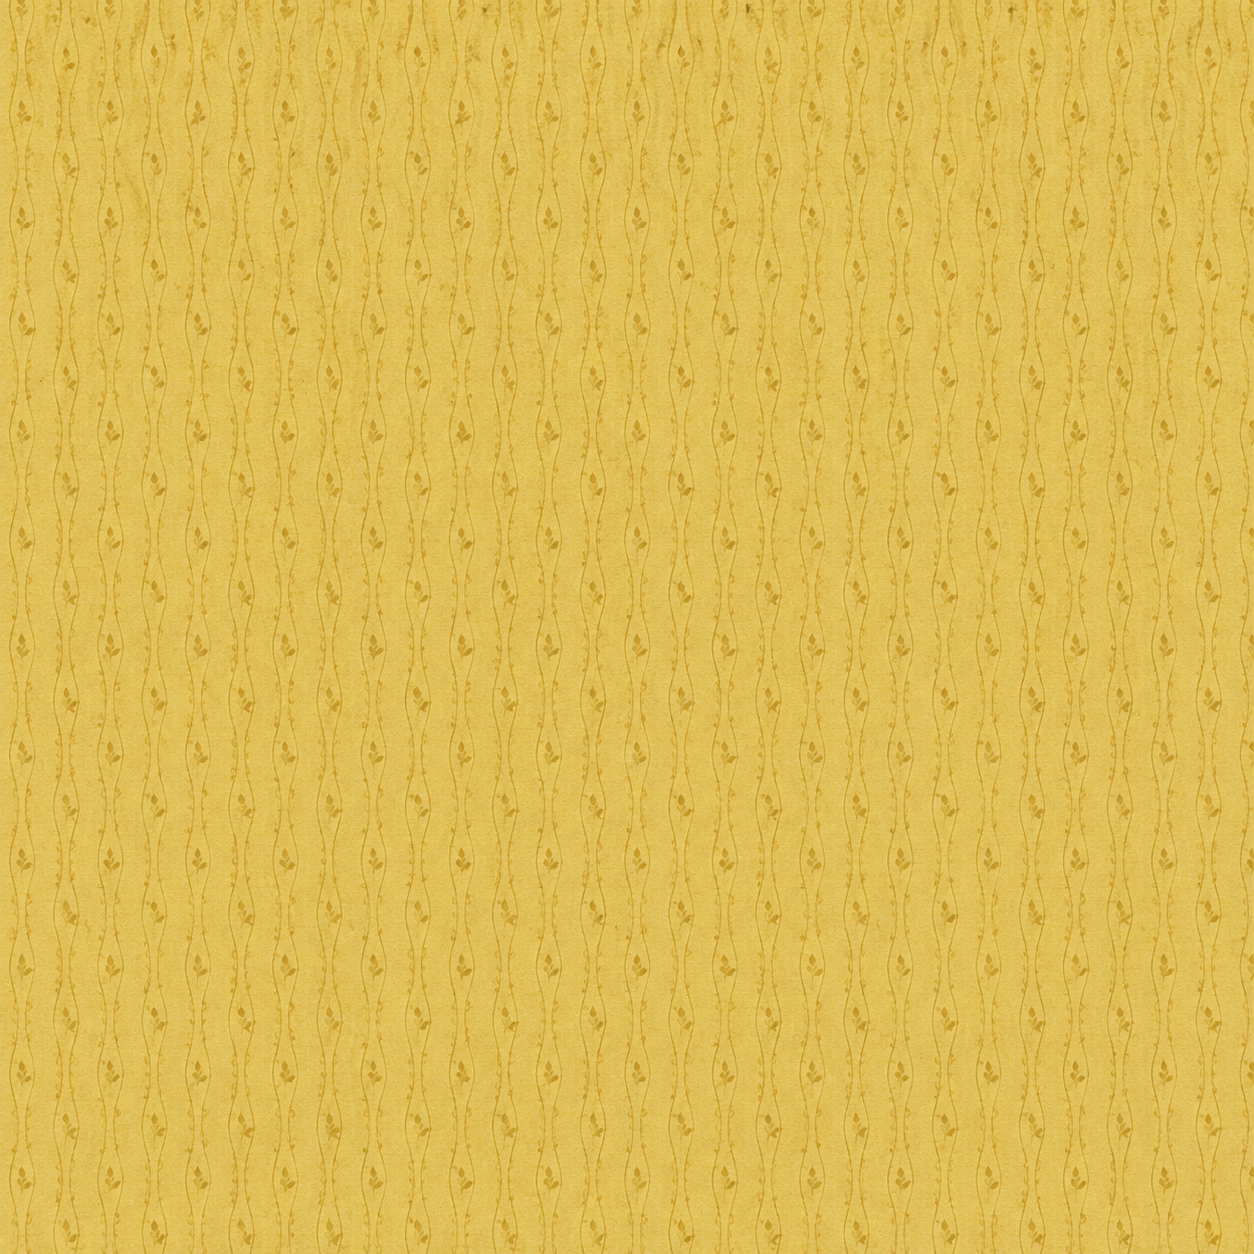
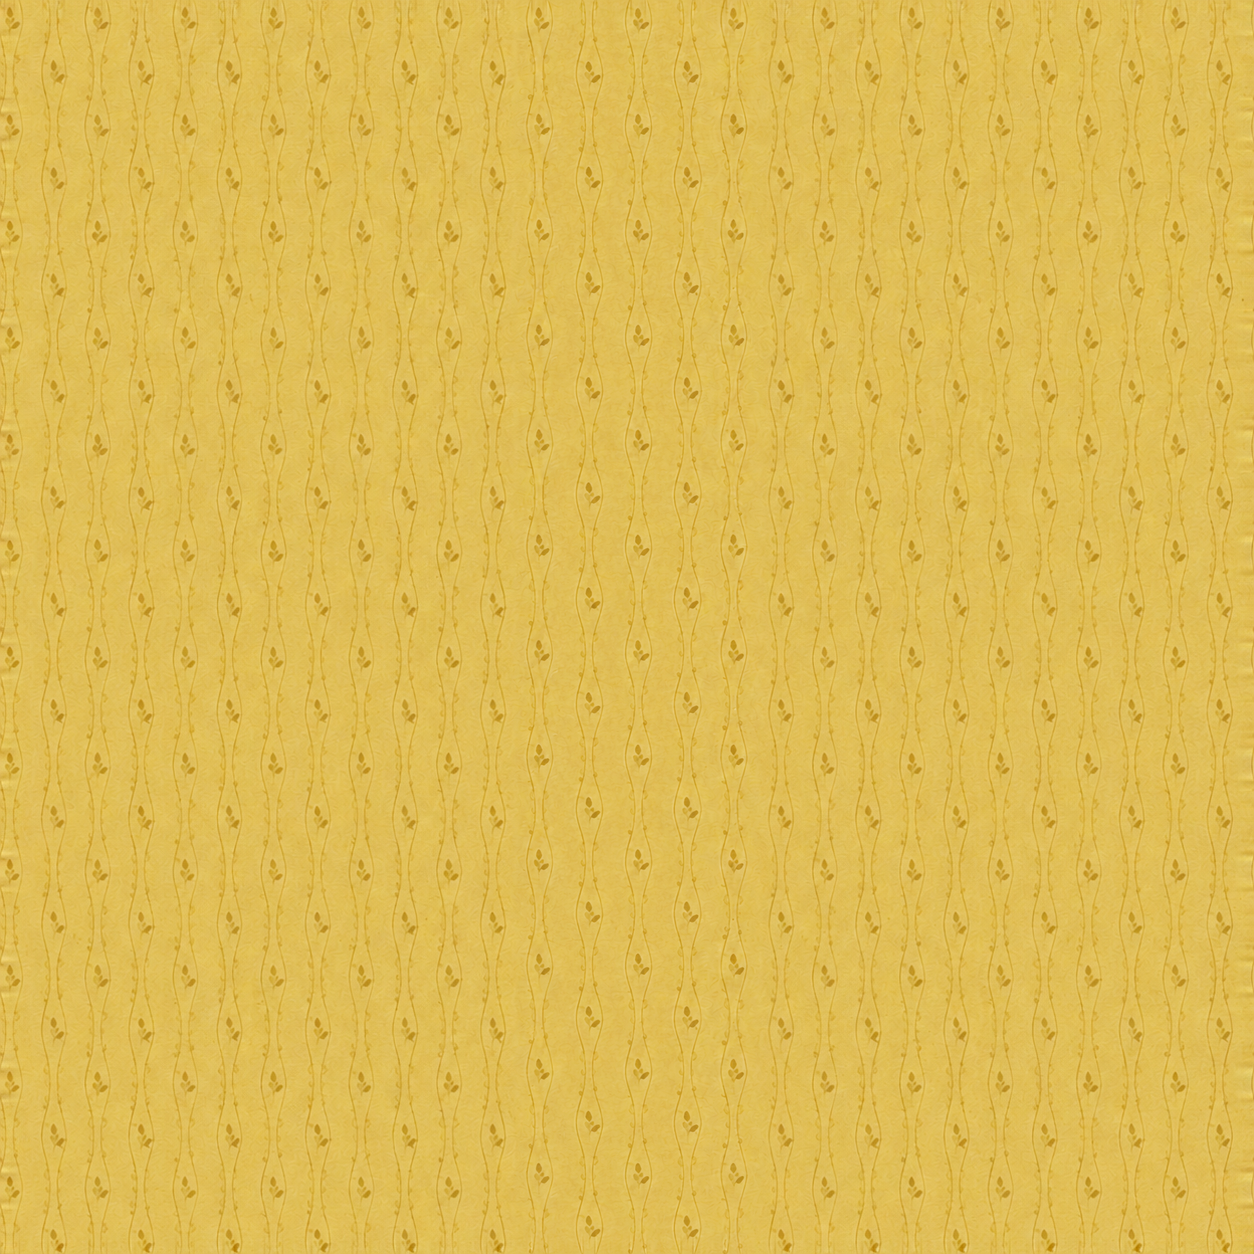
fix(textures): remove mirrored tiling and repair wallpaper seams

Changed region(s): [[0.0, 0.0, 1.0, 1.0], [0.9952, 0.2488, 1.0, 0.2799]]

diff --git a/src/material-detail.ts b/src/material-detail.ts
@@ -6,7 +6,7 @@ export function materialDetail(meters: number, relief: number, range: [number, n
   for (let i = 0; i < normalData.length; i += 4) normalData.set([128, 128, 255, 255], i);
   const normal = new THREE.DataTexture(normalData, size, size), roughness = new THREE.DataTexture(roughData, 512, 512);
   for (const map of [normal, roughness]) {
-    map.wrapS = map.wrapT = THREE.MirroredRepeatWrapping; map.repeat.setScalar(2 / meters);
+    map.wrapS = map.wrapT = THREE.RepeatWrapping; map.repeat.setScalar(2 / meters);
     map.minFilter = THREE.LinearMipmapLinearFilter; map.magFilter = THREE.LinearFilter; map.generateMipmaps = true;
     map.anisotropy = anisotropy; map.flipY = true; map.needsUpdate = true;
   }
@@ -15,7 +15,8 @@ export function materialDetail(meters: number, relief: number, range: [number, n
     const context = canvas.getContext('2d')!; context.drawImage(image, 0, 0, size, size);
     const pixels = context.getImageData(0, 0, size, size).data, height = new Float32Array(size * size);
     for (let i = 0; i < height.length; i++) height[i] = (.2126 * pixels[i * 4] + .7152 * pixels[i * 4 + 1] + .0722 * pixels[i * 4 + 2]) / 255;
-    const at = (x: number, y: number) => height[Math.max(0, Math.min(size - 1, y)) * size + Math.max(0, Math.min(size - 1, x))];
+    // Derivatives cross the same periodic boundary as the color texture.
+    const at = (x: number, y: number) => height[(y & (size - 1)) * size + (x & (size - 1))];
     const scale = relief * size / meters;
     for (let y = 0; y < size; y++) for (let x = 0; x < size; x++) {
       // Sobel gradients retain fine emboss/pile while rejecting broad discoloration.
@@ -33,15 +34,4 @@ export function materialDetail(meters: number, relief: number, range: [number, n
     }
     normal.needsUpdate = roughness.needsUpdate = true;
   } };
-}
-
-/** Mirrored image tiles need their normal's tangent axes mirrored as well. */
-export function mirroredNormals<T extends THREE.MeshStandardMaterial>(material: T): T {
-  const before = material.onBeforeCompile.bind(material), key = material.customProgramCacheKey();
-  material.onBeforeCompile = (shader, renderer) => {
-    before(shader, renderer);
-    shader.fragmentShader = shader.fragmentShader.replace('#include <normal_fragment_maps>',
-      THREE.ShaderChunk.normal_fragment_maps.replace('mapN.xy *= normalScale;', 'mapN.xy *= normalScale * (1. - 2. * mod(floor(vNormalMapUv), 2.));'));
-  };
-  material.customProgramCacheKey = () => `${key}:mirrored-normals`; return material;
 }

diff --git a/src/materials.ts b/src/materials.ts
@@ -1,7 +1,7 @@
 import * as THREE from 'three';
 import { BALL_RADIUS, CEILING_TILE_SIZE, pedestalOutline, PEDESTAL_APOTHEM, PEDESTAL_HEIGHT, ROOM_HEIGHT, ROOMS, SOCKET_DEPTH, SOCKET_RECESS, wallNormal, type PedestalDefinition } from './world';
 import { withDistanceFade } from './visibility';
-import { materialDetail, mirroredNormals } from './material-detail';
+import { materialDetail } from './material-detail';
 import { createRoomEnvironment } from './room-environment';
 import { CEILING_GRID_WIDTH, CEILING_LIGHT, CEILING_PANEL_SIZE } from './lighting';
 
@@ -21,7 +21,7 @@ export function createMaterials(renderer: THREE.WebGLRenderer) {
         detail.update(image); resolve(loaded);
       }, undefined, reject);
     }));
-    result.wrapS = result.wrapT = THREE.MirroredRepeatWrapping; result.anisotropy = anisotropy;
+    result.wrapS = result.wrapT = THREE.RepeatWrapping; result.anisotropy = anisotropy;
     result.repeat.setScalar(2 / metersPerTile); result.colorSpace = THREE.SRGBColorSpace;
     textures.add(result); return { color: result, ...detail };
   }
@@ -107,7 +107,6 @@ export function createMaterials(renderer: THREE.WebGLRenderer) {
       reflectedLight.indirectSpecular *= socketVisibility.y;`);
   };
   materials.socket.customProgramCacheKey = () => 'socket-ball-shadow';
-  for (const material of [materials.wall, materials.floor, materials.ceiling, materials.pedestal, materials.socket]) mirroredNormals(material);
   for (const material of Object.values(materials)) withDistanceFade(material);
   return { materials, textures, environment, optimizations, ready: Promise.all(pending).then(() => {}) };
 }
@@ -182,7 +181,7 @@ export function floorWithContacts(base: THREE.MeshStandardMaterial, pedestals: P
       #endif`);
   };
   material.customProgramCacheKey = () => `floor-contacts:${contacts}`;
-  return withDistanceFade(mirroredNormals(material));
+  return withDistanceFade(material);
 }
 
 /** Submillimeter polish variation in linear roughness, without visible color grain. */
